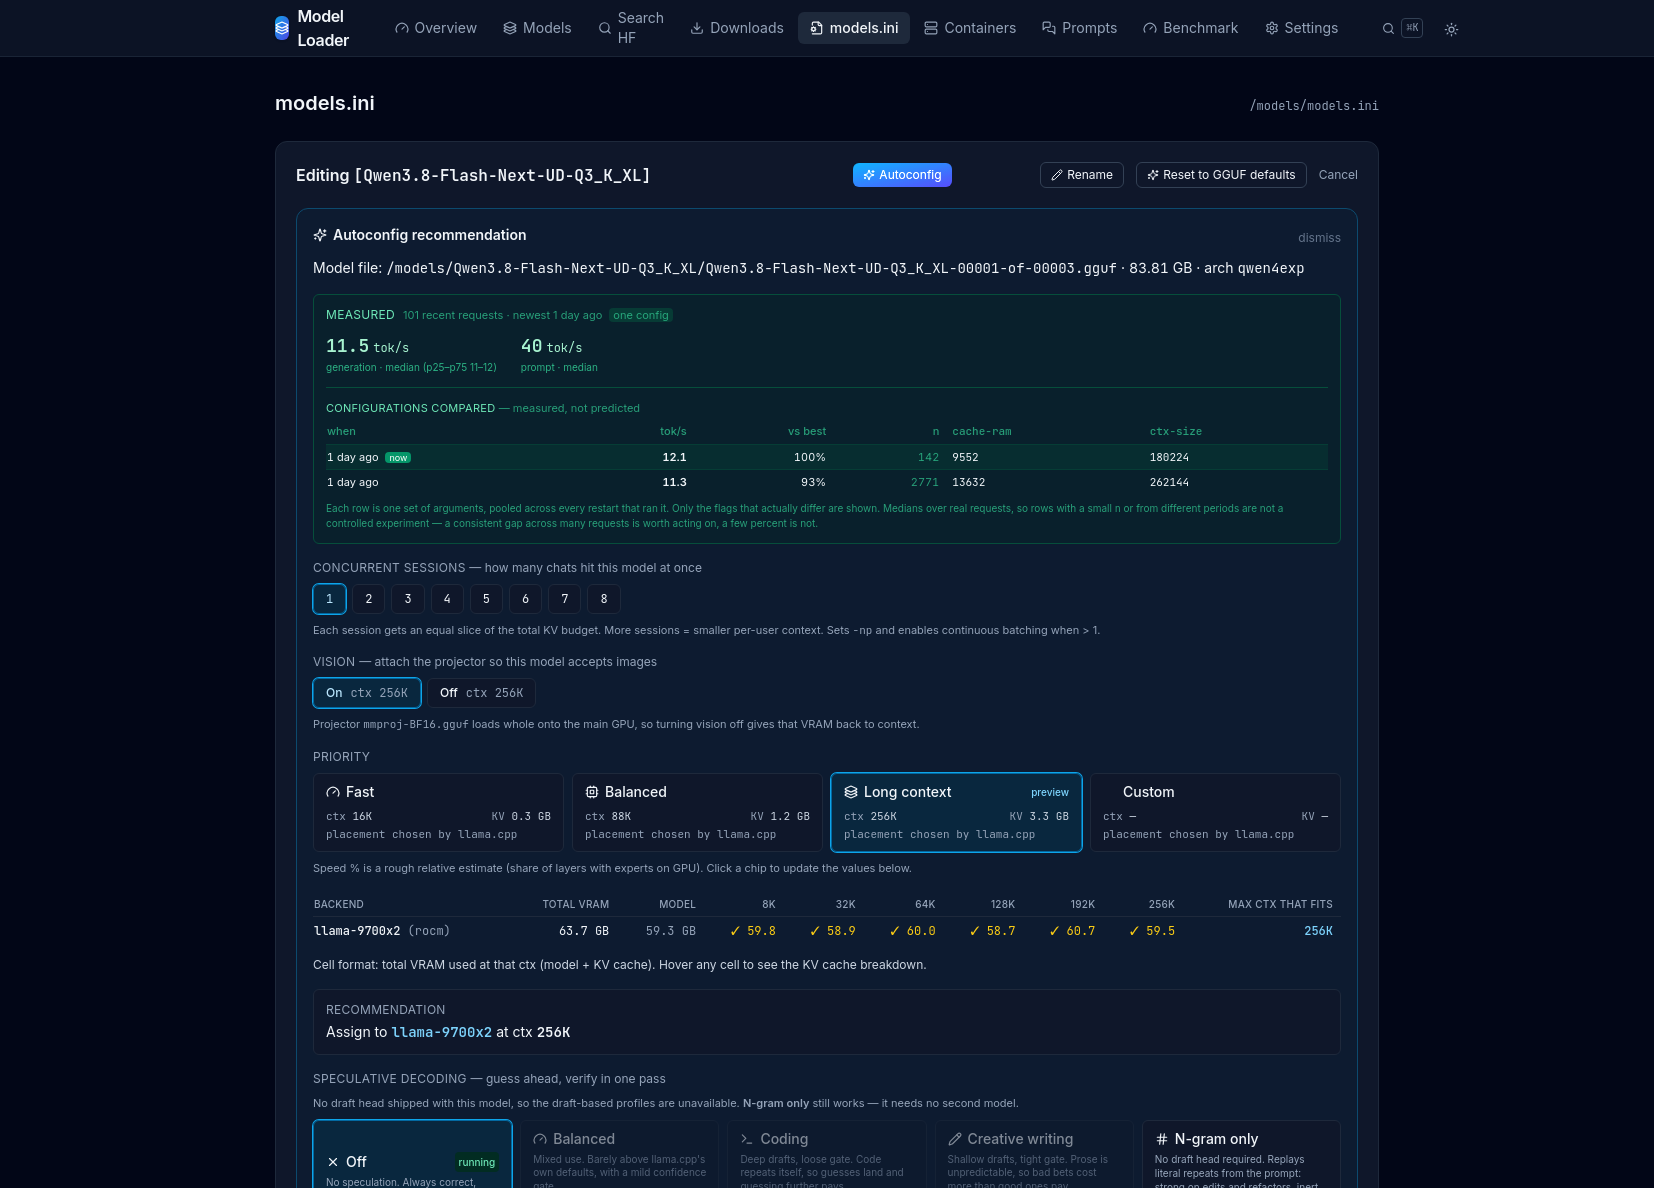
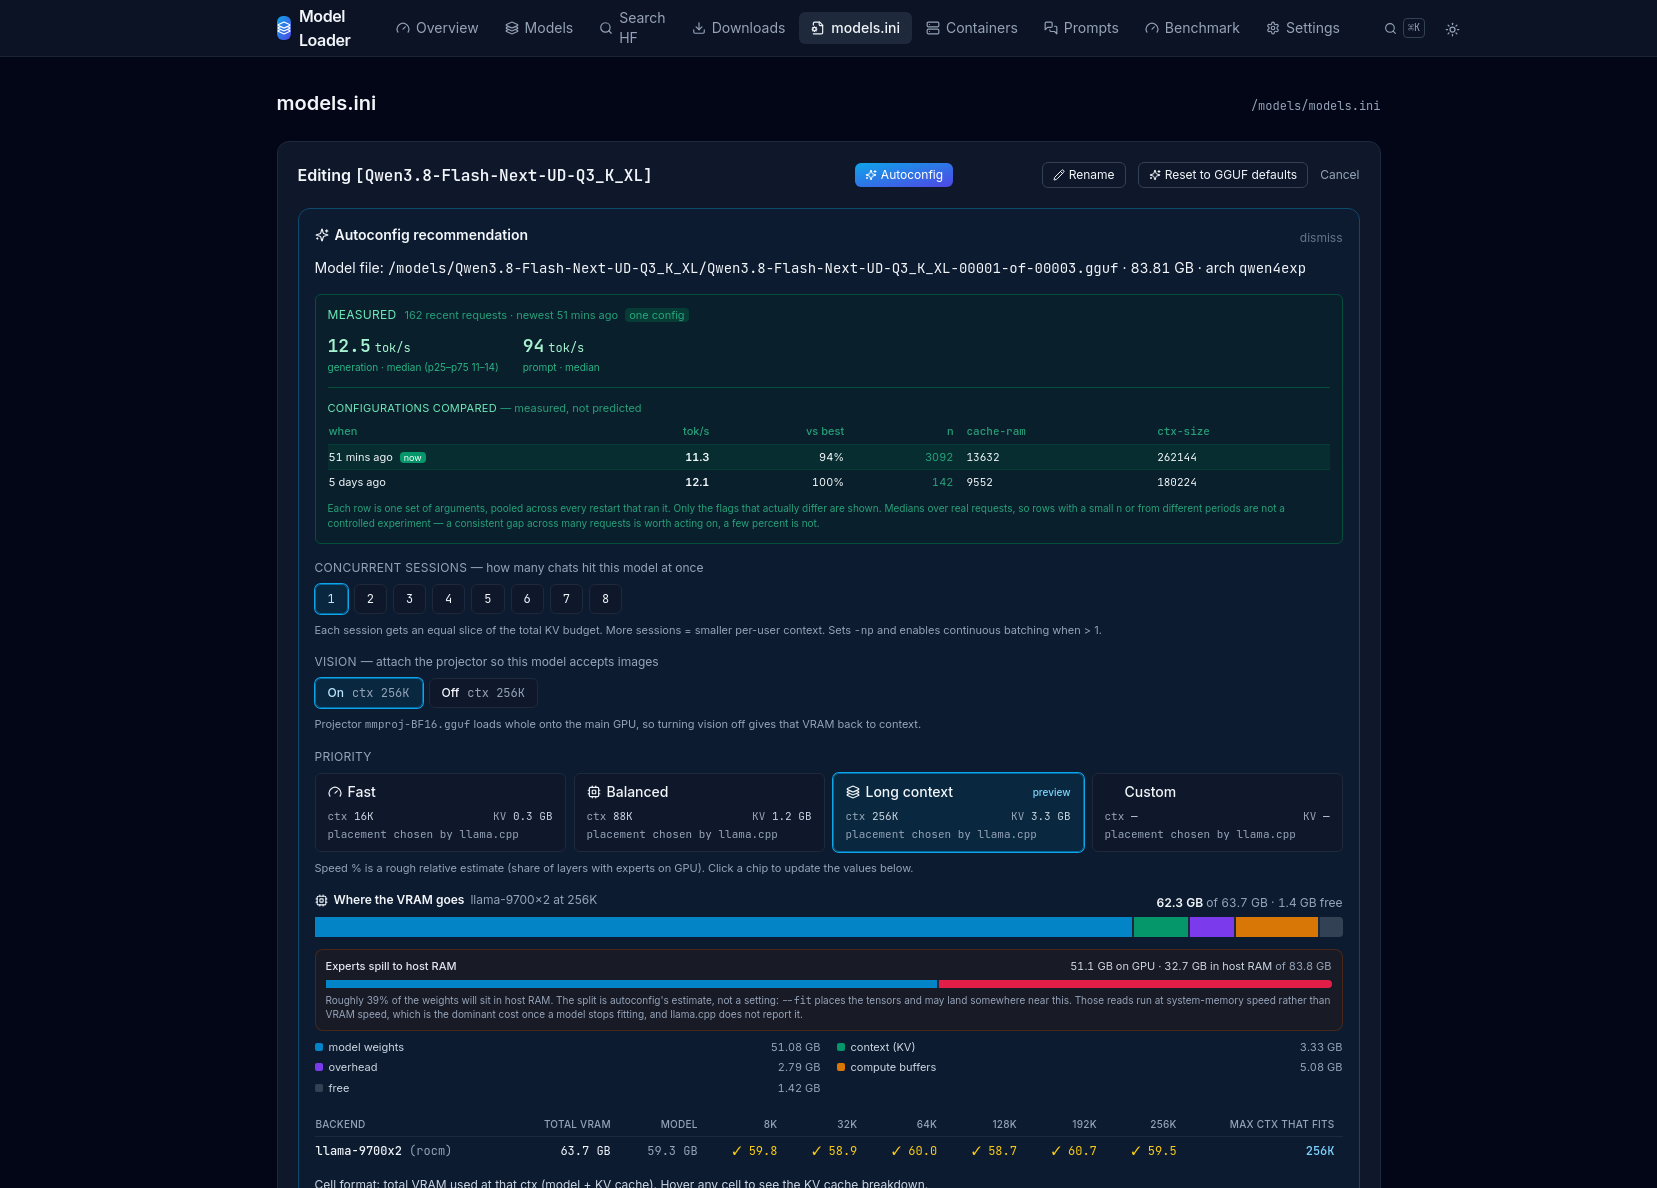
Refresh the README and the two screenshots the VRAM work made stale
Both shots predated this run of changes: the overview had no per-card
breakdown and no spill line, and the autoconfig panel had no VRAM meter at all.
Re-rendered at the same 1657px width and in the same dark theme as the rest of
the set, headlessly against the live box, so they show real numbers rather than
a contrived state.

README gains three things it did not describe:

- the VRAM breakdown itself, and WHY it is itemised: the compute buffer scales
  with context rather than with the model, and on a 27B at a 786K pool it is
  14.9 GB against 15.6 GB of weights. That is not a figure to discover by
  running out of memory.
- the host-RAM spill, with the distinction that matters - the autoconfig panel
  predicts it and says so, the live meter measures it. llama.cpp reports it at
  no verbosity, so the live number comes from what the driver says the running
  process holds.
- the per-slot strip, including the measurement that justifies it: two slots
  decoding 400 tokens each in the same batch held 38.5 and 27.4 tok/s for seven
  seconds, because speculative decoding is accepted far more often on code than
  on prose.

Both alt texts rewritten to match what the images now show; they described
panels that no longer exist in that form.

diff --git a/README.md b/README.md
@@ -2,13 +2,15 @@
 
 A browser UI for managing llama.cpp GGUF models and containers on a personal homelab box. FastAPI + HTMX + Alpine + Tailwind, no build step, one Docker container.
 
-![The Model Loader overview page: estimated power at the wall and the hottest device in the box, each with a sparkline drawn against a configured ceiling; the model currently being served with its tokens/sec and how much of its context window is in use; per-card GPU utilisation, VRAM, temperature, power against the enforced cap and fan speed; then backend and storage summaries](docs/model_loader.png)
+![The Model Loader overview page: estimated power at the wall and the hottest device in the box, each with a sparkline drawn against a configured ceiling; the model currently being served with its tokens/sec, how much of its context window is in use and a line showing how much of the model is in host RAM rather than on the cards; then one panel per GPU, each breaking its VRAM into model weights, context, overhead and compute buffers alongside utilisation, temperature, power against the enforced cap and fan speed; then backend and storage summaries](docs/model_loader.png)
 
 ## What it does
 
 - **Search + download GGUFs from Hugging Face** — parallel-range downloader (8 chunks by default), live per-chunk speed sparklines, resume-on-restart, HF token stored locally for gated repos.
 - **Manage `models.ini`** (the llama-server `--models-preset` file) with a 98-field form organized into 10 tiers (Core → Reasoning → Sampling → Server → …). Tooltips on every field. Atomic writes with 10 rolling backups.
 - **Autoconfig** — reads a GGUF's metadata + probes your live GPU VRAM, then picks `ctx-size`, `n-gpu-layers`, RoPE extension, cache quant, the prompt-cache budget and reasoning-effort flags that actually fit. Handles single-GPU, multi-GPU (`-sm layer`), hybrid attention+SSM (Qwen 3.5/3.6), sliding-window attention (Gemma), and MoE (GPT-OSS, Qwen3-Coder). For MoE models that overflow VRAM it stops guessing and hands placement to llama.cpp's own `--fit`, which is both safer and measurably faster than the split we used to compute. For a model that ships a vision projector, **vision is a switch**: turn it off and autoconfig stops reserving the projector's VRAM and shows you the context that buys.
+- **Per-slot detail when a model runs `parallel > 1`** — the headline tokens/sec is the machine's, summed over the slots that are generating, and a strip underneath gives each slot its own rate and context. They diverge more than you would expect: two slots decoding 400 tokens each in the same batch held 38.5 and 27.4 tok/s for seven seconds, because speculative decoding gets the draft head accepted far more often on code than on prose. The strip's rows shrink and wrap as the slot count grows, so eight slots still fit beside the sparkline.
+- **Where the VRAM actually went** — every panel that shows VRAM splits it into model weights, context (KV), overhead and compute buffers rather than one number. The compute buffer is the reason: it scales with context rather than with the model, and on a 27B at a 786K pool it is 14.9 GB against 15.6 GB of weights, which is not something to discover by running out. When a model is bigger than the cards, a second bar shows how much of it is in host RAM — **measured, not predicted**. llama.cpp does not report that at any verbosity; it is read from what the driver says the running process holds.
 - **Benchmarking** — a fixed prompt suite run through the live server (first-token latency, draft acceptance, VRAM), and throughput sweeps driven by llama.cpp's own `llama bench`. Charts and stat panels; every response's text is kept so a run can be read, not just measured. Nothing is written back to any config.
 - **Capability badges** — rate a model yourself, out of five, per category (coding, creative writing, reasoning, tool use, vision), from the benchmark run where you just read its output. The models list shows what each model is good at, or says `not rated`.
 - **Measured throughput, not just predicted** — llama-server already reports prompt speed, generation speed and speculative acceptance for every request it serves. Model Loader reads those back out of the container logs and shows the median in the Autoconfig panel, alongside a comparison of every configuration that model has actually run under.
@@ -34,13 +36,17 @@ The two jobs above are one action: downloading a multimodal model auto-queues th
 
 ### Autoconfig, in practice
 
-![The Autoconfig panel: measured generation and prompt speed from real requests with a table comparing the configurations actually run, then a concurrent-sessions picker, a vision toggle, four priority presets (Fast, Balanced, Long context, Custom) each showing context size and KV cost, and a per-backend table marking which context sizes fit and which do not](docs/model_performance_selector.png)
+![The Autoconfig panel: measured generation and prompt speed from real requests with a table comparing the configurations actually run, then a concurrent-sessions picker, a vision toggle, four priority presets (Fast, Balanced, Long context, Custom) each showing context size and KV cost, a part-to-whole meter splitting the recommended configuration's VRAM into model weights, context, overhead and compute buffers with a second bar showing how much of the model would sit in host RAM, and a per-backend table marking which context sizes fit and which do not](docs/model_performance_selector.png)
 
 Pick how many chats will hit the model at once, then pick a priority. Each preset shows what you are trading: context size against GPU layers against speed. The table underneath marks every context size as fitting or not on each backend, and names the cost when it doesn't — `9L on CPU` means nine layers had to move off the GPU to make that context fit.
 
 For a model with a projector beside it there is also a **Vision** switch, showing the context each state buys. The projector and its encoder buffer can't be split across cards, so they sit whole on the main GPU. On a 27B here, vision on allows 64K with every layer on the GPUs; vision off allows 152K. Off is saved as `mmproj-auto = off`, so the next autoconfig run doesn't quietly switch it back on.
 
 The speed figures are an **ordering hint, not a benchmark**. They come from a calibrated penalty per CPU-resident layer; they will tell you Fast beats Long context, and they will not tell you your tokens per second. The panel says so too — and where real requests have been served, it shows the measured median beside the estimate.
+
+Underneath the presets, **Where the VRAM goes** draws the recommended configuration as a part-to-whole meter of the whole card: model weights, context, overhead, compute buffers, free. Every number in it is the one the fit maths used, not a re-derivation. If the model is larger than the cards a second bar appears with its own denominator — the model, not the card — showing the split between what lands on the GPU and what streams from host RAM. For a MoE that is the experts; attention stays resident, which is why the share is measured in bytes and not in layers.
+
+The same meter is drawn live on the overview, per card, from what is actually loaded. There the spill is measured rather than estimated: the fixed costs are allocated at load and do not move, so whatever else the device holds is weights, and the driver reports that per process.
 
 ### The models.ini editor
 
